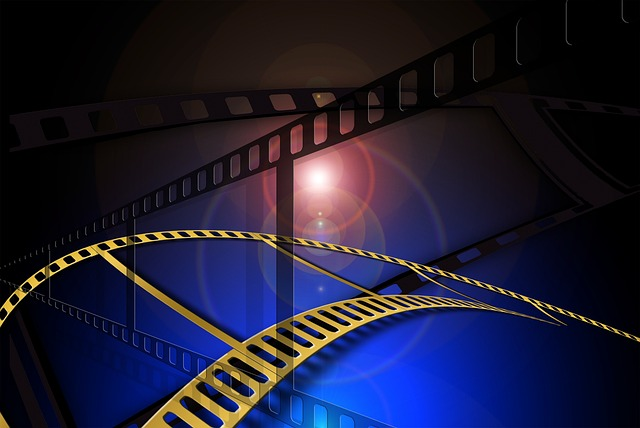
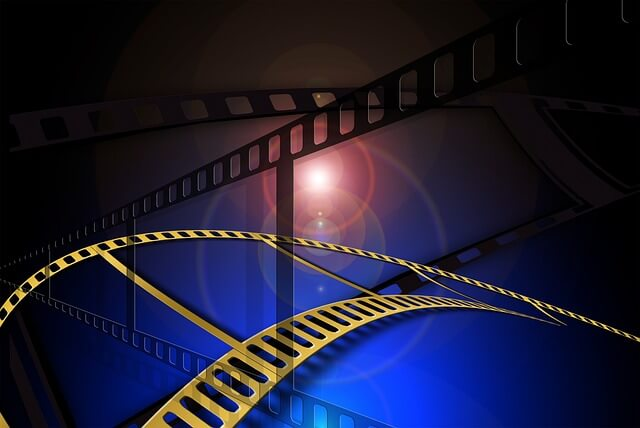
optimized images

diff --git a/sass/main.scss b/sass/main.scss
@@ -201,7 +201,6 @@ body {
   text-align: center;
   margin-top: 2.2em;
   @include bgImages("../img/hero/mobile.png");
-     
 
   .shadow {
     position: absolute;
@@ -586,14 +585,6 @@ body {
   }
 }
 
-// ===================media max-width 700px====================//
-@media (min-width: 700px) {
-  //  .hero {
-  //      @include bgImages("../img/hero/image-6000x6000.jpg");
-  //      background-position: top center;
-
-  //   }
-}
 //================media min-width 768px========================//
 
 @media (min-width: 768px) {
@@ -746,19 +737,15 @@ body {
     }
   }
   .hero {
-
-    // background-image: url("../img/hero/mobile.png");
-    background-position: center center;
-    // background-size: 30%;
-    // margin-left: 2em;
-
+    @include bgImages("../img/hero/laptop.png");
+    background-position: top center;
+    background-size: 67%;
 
     &__text {
       width: 70%;
     }
     &__heading {
       font-size: 6rem;
-  
     }
   }
 

diff --git a/css/main.css b/css/main.css
@@ -774,7 +774,13 @@ body {
     font-size: 2.8rem;
   }
   .hero {
-    background-position: center center;
+    background-image: url("../img/hero/laptop.png");
+    background-size: cover;
+    background-position: center;
+    background-repeat: no-repeat;
+    background-attachment: fixed;
+    background-position: top center;
+    background-size: 67%;
   }
   .hero__text {
     width: 70%;

diff --git a/index-pl.html b/index-pl.html
@@ -15,7 +15,7 @@
       crossorigin="anonymous"
     ></script>
 
-    <title>CV</title>
+    <title>Portfolio</title>
   </head>
   <body>
     <!-- header -->

diff --git a/index-ua.html b/index-ua.html
@@ -15,7 +15,7 @@
       crossorigin="anonymous"
     ></script>
 
-    <title>CV</title>
+    <title>Portfolio</title>
   </head>
   <body>
     <!-- header -->

diff --git a/index.html b/index.html
@@ -15,7 +15,7 @@
       crossorigin="anonymous"
     ></script>
 
-    <title>CV</title>
+    <title>Portfolio</title>
   </head>
   <body>
     <!-- header -->
